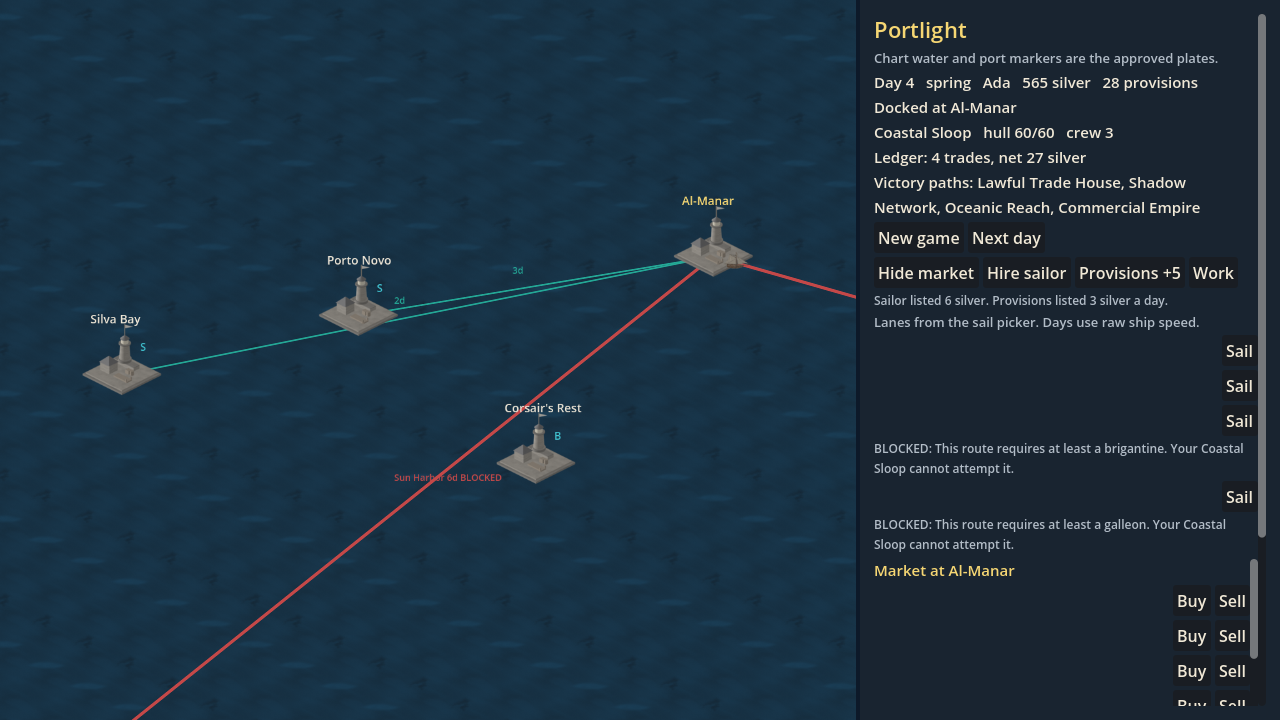
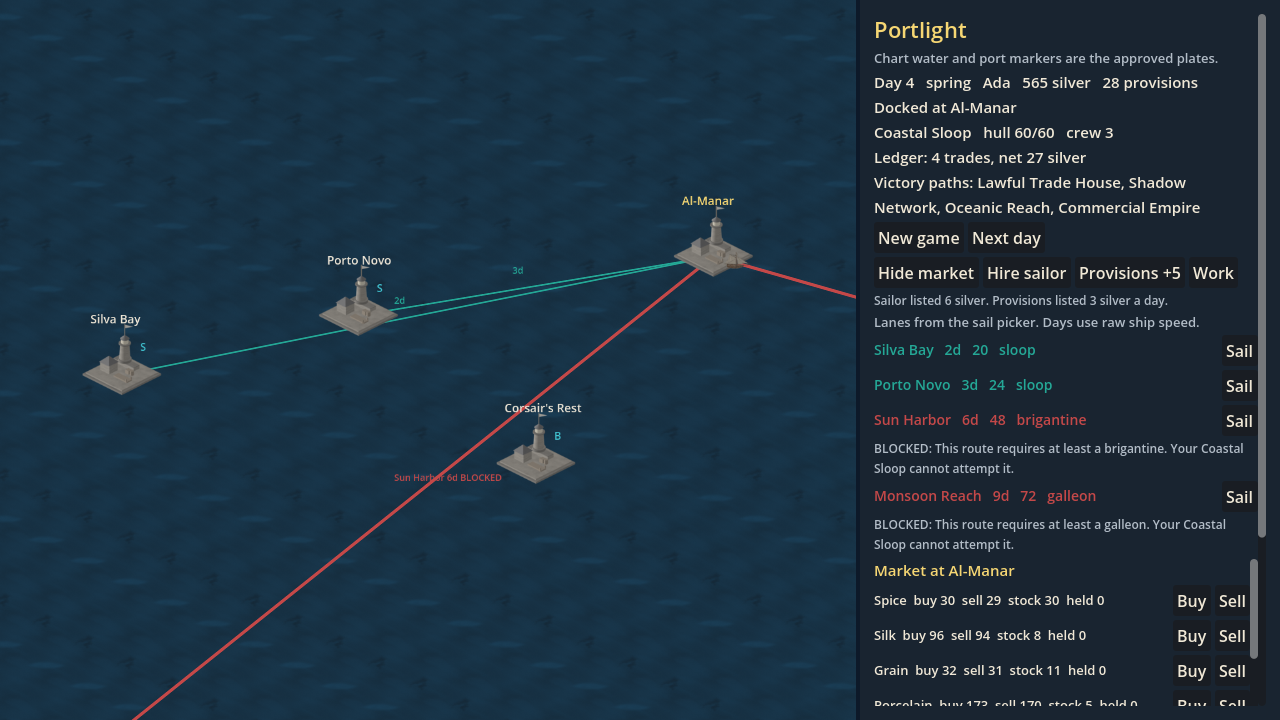
Draw lane and market labels, and describe a pending-duel day.
Autowrap plus clip-text collapsed those Godot labels to 1x1. Row labels use ellipsis instead, and the Xvfb smoke checks that each one has text and a real line height. Next day during a duel ticks reputation and does not move the day.

diff --git a/crates/portlight-godot/src/game.rs b/crates/portlight-godot/src/game.rs
@@ -3,8 +3,9 @@
 //! Buttons call [`portlight_sim::Session`]. Labels repeat fields those queries
 //! already computed. Good names and the season name are catalog strings.
 //!
-//! A pending duel is named on the panel. Next day still calls `Session::advance`
-//! and shows `SimError` if the sim refuses. The stance fight is `Session::duel`
+//! A pending duel is named on the panel. Next day still calls `Session::advance`,
+//! which ticks reputation and does not move the day. A `SimError` is shown if
+//! advance fails for another reason. The stance fight is `Session::duel`
 //! (the sim requires at least three of thrust, slash, and parry) or
 //! `Session::resolve_pending_duel`. `DuelOutcome.standing_delta` is shown and
 //! not written onto reputation. Negotiate, flee, naval rounds, and boarding
@@ -13,9 +14,9 @@
 
 use godot::classes::control::{LayoutPreset, SizeFlags};
 use godot::classes::scroll_container::ScrollMode;
-use godot::classes::text_server::AutowrapMode;
+use godot::classes::text_server::{AutowrapMode, OverrunBehavior};
 use godot::classes::{
-    Button, Control, HBoxContainer, IControl, Label, Os, PanelContainer, ScrollContainer,
+    Button, Control, HBoxContainer, IControl, Label, Node, Os, PanelContainer, ScrollContainer,
     StyleBoxFlat, SubViewport, SubViewportContainer, VBoxContainer,
 };
 use godot::global::Error;
@@ -191,6 +192,11 @@ impl IControl for PortlightGame {
         self.capture_frames -= 1;
         if self.capture_frames > 0 {
             return;
+        }
+        // Measure after layout. Headless `--smoke` has no shot and skips this:
+        // the Xvfb capture is the run that has to see real label sizes.
+        if self.smoke && self.shot_path.is_some() && self.market_open {
+            self.assert_panel_labels();
         }
         if let Some(path) = self.shot_path.clone() {
             if !self.save_shot(&path) {
@@ -480,7 +486,7 @@ impl PortlightGame {
     fn run_encounter(&mut self) {
         if let Some(name) = self.sail_until_duel() {
             self.push_log(format!(
-                "Duel with {name}. Next day calls Session::advance; the sim refuses while this duel is pending. Pick at least 3 stances, or auto-resolve."
+                "Duel with {name}. Next day calls Session::advance, which ticks reputation and does not move the day while this duel is pending. Pick at least 3 stances, or auto-resolve."
             ));
         }
         self.refresh();
@@ -1008,8 +1014,8 @@ impl PortlightGame {
             let mut row = HBoxContainer::new_alloc();
             let mut label = body_label(
                 &format!(
-                    "{}   {}   {}d   {}",
-                    lane.destination_name, lane.distance, lane.estimated_days, lane.min_ship_class
+                    "{}   {}d   {}   {}",
+                    lane.destination_name, lane.estimated_days, lane.distance, lane.min_ship_class
                 ),
                 14,
                 Color::from_rgba8(lane.color.r, lane.color.g, lane.color.b, 255),
@@ -1054,7 +1060,7 @@ impl PortlightGame {
             } = row;
             let mut row = HBoxContainer::new_alloc();
             let mut label = body_label(
-                &format!("{name}  stock {stock}  buy {buy}  sell {sell}  held {held}"),
+                &format!("{name}  buy {buy}  sell {sell}  stock {stock}  held {held}"),
                 13,
                 CREAM,
             );
@@ -1180,6 +1186,109 @@ impl PortlightGame {
             .unwrap_or(0)
     }
 
+    /// The Xvfb chart capture opens the market. Every lane and market label
+    /// must have text and a real line height. Autowrap plus clip-text used to
+    /// collapse these to 1×1, which the flat-frame check does not see.
+    fn assert_panel_labels(&mut self) {
+        let lanes = self
+            .lane_box
+            .as_ref()
+            .map(labels_under_box)
+            .unwrap_or_default();
+        let market = self
+            .market_box
+            .as_ref()
+            .map(labels_under_box)
+            .unwrap_or_default();
+        let lanes_ok = self.labels_have_a_line("lane", &lanes);
+        let market_ok = self.labels_have_a_line("market", &market);
+        let text_ok = self.labels_name_the_rows(&lanes, &market);
+        if !lanes_ok || !market_ok || !text_ok {
+            self.smoke_ok = false;
+        }
+    }
+
+    fn labels_have_a_line(&mut self, kind: &str, labels: &[Gd<Label>]) -> bool {
+        if labels.is_empty() {
+            let line = format!("Smoke: no {kind} labels.");
+            godot_print!("{line}");
+            self.push_log(line);
+            return false;
+        }
+        let mut ok = true;
+        for label in labels {
+            let text = label.get_text().to_string();
+            let lines = label.get_line_count();
+            let height = label.get_size().y;
+            let line_h = label.get_line_height();
+            if text.trim().is_empty() || lines < 1 || line_h <= 0 || height < line_h as f32 {
+                ok = false;
+                let line = format!(
+                    "Smoke: {kind} label {text:?} lines={lines} height={height} line_h={line_h}"
+                );
+                godot_print!("{line}");
+                self.push_log(line);
+            }
+        }
+        godot_print!("panel {kind} labels {} ok={ok}", labels.len());
+        ok
+    }
+
+    fn labels_name_the_rows(&mut self, lanes: &[Gd<Label>], market: &[Gd<Label>]) -> bool {
+        let mut ok = true;
+        if let Some(chart) = self.chart_now() {
+            for lane in &chart.lanes {
+                let days = format!("{}d", lane.estimated_days);
+                let shown = lanes.iter().any(|label| {
+                    let text = label.get_text().to_string();
+                    text.contains(&lane.destination_name) && text.contains(&days)
+                });
+                if !shown {
+                    ok = false;
+                    let line = format!(
+                        "Smoke: lane {} missing destination or days.",
+                        lane.destination_name
+                    );
+                    godot_print!("{line}");
+                    self.push_log(line);
+                }
+                if let Some(note) = &lane.suitability_note {
+                    let shown = lanes
+                        .iter()
+                        .any(|label| label.get_text().to_string().contains(note.as_str()));
+                    if !shown {
+                        ok = false;
+                        let line =
+                            format!("Smoke: lane {} missing lock reason.", lane.destination_name);
+                        godot_print!("{line}");
+                        self.push_log(line);
+                    }
+                }
+            }
+        }
+        if let Some((_, rows)) = self.market_rows() {
+            for row in rows {
+                let price = format!("buy {}", row.buy);
+                let stock = format!("stock {}", row.stock);
+                let shown = market.iter().any(|label| {
+                    let text = label.get_text().to_string();
+                    text.contains(&row.name) && text.contains(&price) && text.contains(&stock)
+                });
+                if !shown {
+                    ok = false;
+                    let line = format!("Smoke: market {} missing good, price, or stock.", row.name);
+                    godot_print!("{line}");
+                    self.push_log(line);
+                }
+            }
+        } else {
+            ok = false;
+            godot_print!("Smoke: market rows missing.");
+            self.push_log("Smoke: market rows missing.".to_string());
+        }
+        ok
+    }
+
     fn push_log(&mut self, line: impl Into<String>) {
         self.log_lines.push(line.into());
         if self.log_lines.len() > 8 {
@@ -1255,7 +1364,7 @@ impl PortlightGame {
             return String::new();
         };
         format!(
-            "Duel: {}.\nFaction {} · {} · strength {} · {}.\nNext day calls the sim. Pick stances, or auto-resolve.",
+            "Duel: {}.\nFaction {} · {} · strength {} · {}.\nNext day ticks reputation and does not move the day. Pick stances, or auto-resolve.",
             duel.captain_name, duel.faction_id, duel.personality, duel.strength, duel.region
         )
     }
@@ -1364,10 +1473,35 @@ fn action_button(text: &str, game: InstanceId, action: Action) -> Gd<Button> {
     button
 }
 
+fn labels_under_box(node: &Gd<VBoxContainer>) -> Vec<Gd<Label>> {
+    let mut found = Vec::new();
+    for child in node.get_children().iter_shared() {
+        found.extend(labels_from_node(&child));
+    }
+    found
+}
+
+fn labels_from_node(node: &Gd<Node>) -> Vec<Gd<Label>> {
+    let mut found = Vec::new();
+    if let Ok(label) = node.clone().try_cast::<Label>() {
+        found.push(label);
+    }
+    for child in node.get_children().iter_shared() {
+        found.extend(labels_from_node(&child));
+    }
+    found
+}
+
+/// Fit a row label beside its button.
+///
+/// Autowrap and clip-text together make Godot 4.7.2 report a 1×1 minimum
+/// size (`label.cpp` around the autowrap clip branch), so the text never
+/// draws. Ellipsis trimming keeps one line and does not collapse it.
 fn shrink_label(label: &mut Gd<Label>) {
     label.set_h_size_flags(SizeFlags::EXPAND_FILL);
-    label.set_autowrap_mode(AutowrapMode::WORD_SMART);
-    label.set_clip_text(true);
+    label.set_autowrap_mode(AutowrapMode::OFF);
+    label.set_clip_text(false);
+    label.set_text_overrun_behavior(OverrunBehavior::TRIM_ELLIPSIS);
 }
 
 fn scrolling(height: f32) -> (Gd<ScrollContainer>, Gd<VBoxContainer>) {
